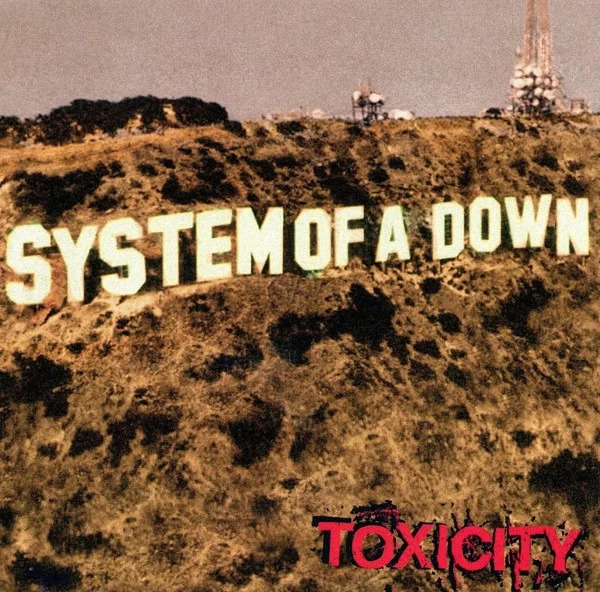
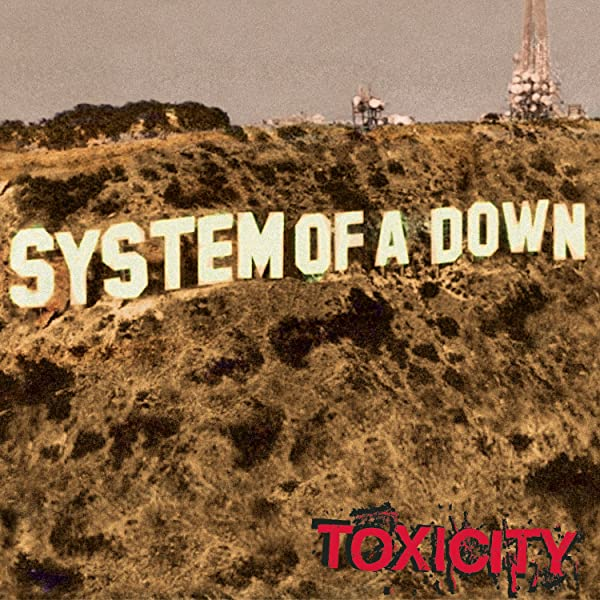
changed images

diff --git a/main.css b/main.css
@@ -227,5 +227,9 @@ body {
   display: -ms-flexbox;
   display: flex;
   margin: 0 auto;
+  width: 100%;
+  height: 100%;
+  -o-object-fit: scale-down;
+     object-fit: scale-down;
 }
 /*# sourceMappingURL=main.css.map */

diff --git a/main.scss b/main.scss
@@ -206,5 +206,8 @@ body {
 	&__image {
 		display: flex;
 		margin: 0 auto;
+		width: 100%;
+		height: 100%;
+		object-fit: scale-down;
 	}
 }
